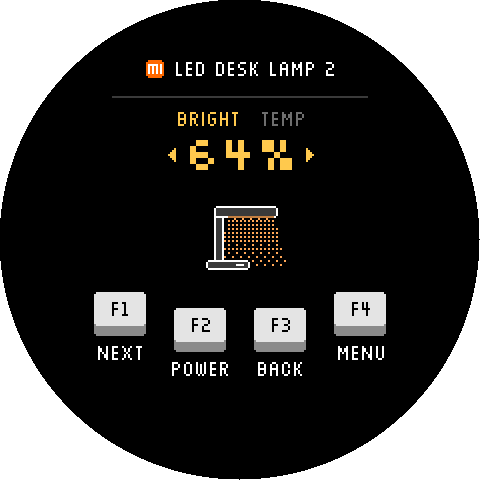
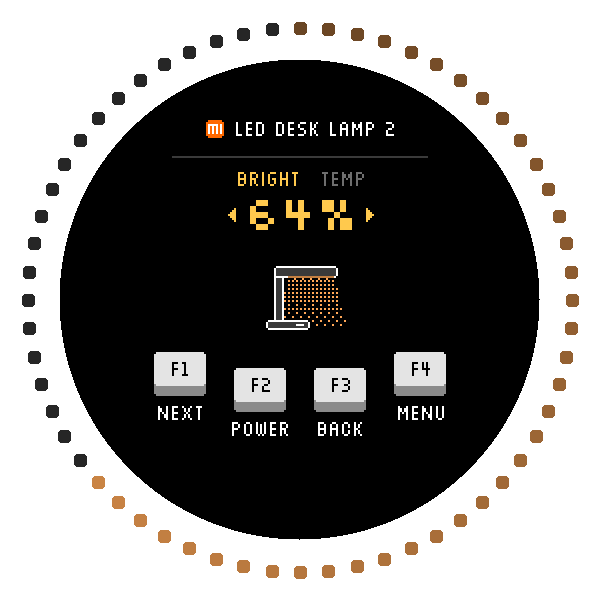
Docs: README's HOME section with every screen and the LED ring
The list and edit shots show the LED ring round the screen (brightness fill, the whites, the
hue wheel); new shots of a desk lamp on, one off, an offline lamp; the screens, the ring, idle
and setup described; the "not yet tested" note goes.

diff --git a/README.md b/README.md
@@ -482,37 +482,67 @@ SECONDS turns the ring into a seconds hand. The clock never goes to the idle scr
 ### HOME (Xiaomi lamps)
 
 <p>
-  <img src="NanoDepsidf/docs/images/home-list.png" width="180" alt="HOME list: the lightstrip, on, its LEDs and brightness meter in its blue">
-  <img src="NanoDepsidf/docs/images/home-edit.png" width="180" alt="HOME changing Desk Lamp 2's brightness, 64%: the value in amber, its light cone below">
-  <img src="NanoDepsidf/docs/images/home-white.png" width="180" alt="HOME changing Desk Lamp 2's white, 4300 K, NEUTRAL">
-  <img src="NanoDepsidf/docs/images/home-color.png" width="180" alt="HOME changing the lightstrip's colour, hue 200">
+  <img src="NanoDepsidf/docs/images/home-list.png" width="225" alt="HOME list: the lightstrip, on at 76%; the LED ring filled three quarters of the way round in its blue">
+  <img src="NanoDepsidf/docs/images/home-edit.png" width="225" alt="HOME changing Desk Lamp 2's brightness, 64%: the ring fills clockwise from 12 o'clock, dim to full in its warm white">
+</p>
+<p>
+  <img src="NanoDepsidf/docs/images/home-white.png" width="225" alt="HOME changing Desk Lamp 2's white, 4300 K, NEUTRAL: the ring runs the lamp's whites, warm to cool, the chosen one brightest">
+  <img src="NanoDepsidf/docs/images/home-color.png" width="225" alt="HOME changing the lightstrip's colour, hue 200: the ring is a hue wheel with the chosen colour at 12 o'clock">
 </p>
 
-Pick **HOME** in PROFILES and the knob looks for your lamps on the network, then lists them.
-It talks to them itself over WiFi with Xiaomi's local protocol (miIO, UDP port 54321): no
-cloud, no computer, no hub.
+Pick **HOME** in PROFILES and the knob becomes a remote for the Xiaomi lamps on your network:
+it finds them, lists them, and changes them live as you turn. It talks to the lamps itself
+over WiFi with Xiaomi's local protocol (miIO, UDP port 54321): no cloud, no computer, no hub.
+Desk lamps, light strips and bulbs work (tested with the Xiaomi LED Desk Lamp 2, Mi Desk Lamp
+1S and the Xiaomi Smart Lightstrip); each lamp offers what it has of brightness, white (colour
+temperature) and colour.
 
 | Input | In the list | Changing a lamp |
 |---|---|---|
-| Knob | Next / previous lamp | Its brightness, white (colour temperature) or colour, live |
-| F1 | Change this lamp | Next setting |
+| Knob | Next / previous lamp | Its brightness, white or colour, live |
+| F1 | Change this lamp (RETRY on an offline one) | Next setting |
 | F2 | On / off | On / off |
-| F3 | Look again | Back to the list |
+| F3 | Look again (SCAN) | Back to the list |
 | F4 | Menu | Menu |
 
 Every change goes to the lamp as you turn; there is nothing to save. Turning a value up on a
-lamp that is off switches it on.
+lamp that is off switches it on. The knob's feel is coarse in the list and fine while you
+change a lamp.
 
-**What you see.** Each lamp is drawn after the real device (a desk lamp, the 1S with its slim
-arm, the strip, a bulb), lit in its own colour and dimmed with its brightness; desk lamps throw
-a dithered cone of light. The Mi badge at the top marks Xiaomi's lamps. The screen shows the
-value; the LED ring shows the scale. The lamp's brightness fills the ring clockwise from
-12 o'clock in its colour (1 % is one LED): dim in the list, dim to full while you turn it. White
-runs round the ring from the lamp's warmest to its coolest with the chosen one brightest, and
-colour is a hue wheel that turns so the chosen colour sits at 12 o'clock. With the lamp off,
-the ring is dark. On the idle screen the lamp you changed last jumps. A lamp shows OFFLINE when it doesn't answer, and NO REPLY
-when a change got no answer. The knob reads the lamps again every 30 seconds while the list
-is up, so a change made on the phone shows there too.
+**The screens.**
+
+<p>
+  <img src="NanoDepsidf/docs/images/home-scan.png" width="180" alt="HOME scanning: rings go out from a bulb, SEARCHING, 2 OF 4">
+  <img src="NanoDepsidf/docs/images/home-desk.png" width="180" alt="HOME list: LED Desk Lamp 2, on, its light cone and brightness meter in warm white">
+  <img src="NanoDepsidf/docs/images/home-off.png" width="180" alt="HOME list: the Desk Lamp (1S) switched off with F2, drawn in grey">
+  <img src="NanoDepsidf/docs/images/home-offline.png" width="180" alt="HOME list: a bulb that doesn't answer, OFFLINE, F1 RETRY">
+</p>
+
+- **Searching:** on entering HOME (or F3, or after a minute away) the knob says hello to the
+  lamps and counts the ones that answer. It takes a second or two.
+- **The list:** each lamp is drawn after the real device (a desk lamp, the 1S with its slim
+  arm, the strip, a bulb), lit in its own colour and dimmed with its brightness; desk lamps
+  throw a dithered cone of light. Under its name: ON with a brightness meter, OFF, OFFLINE
+  (it doesn't answer) or NO REPLY (a change got no answer). The Mi badge at the top marks
+  Xiaomi's lamps. While the list is up the knob reads the lamps again every 30 seconds, so a
+  change made on the phone shows there too.
+- **Changing a lamp:** the settings it has along the top (the one being turned in amber), the
+  value, WARM / NEUTRAL / COOL for white, and the lamp itself, lit as it is now.
+
+**The LED ring is the scale.** The screen shows the value; the ring round the knob shows where
+it sits, in the lamp's own light:
+- **Brightness** fills the ring clockwise from 12 o'clock in the lamp's colour, so 1 % is one
+  LED and 100 % all 60: dim in the list, dim to full while you turn it.
+- **White** runs round the ring from the lamp's warmest white to its coolest, the chosen one
+  brightest.
+- **Colour** is a hue wheel that turns as you do, the chosen colour at 12 o'clock.
+- With the lamp off, the ring is dark. The keys light in the lamp's colour.
+
+<p>
+  <img src="NanoDepsidf/docs/images/home-idle.png" width="180" alt="HOME idle screen: the lightstrip as the jumping icon, lit in its blue">
+</p>
+
+**Idle.** On the idle screen the lamp you changed last jumps, lit in its colour.
 
 **Setting it up, once.** Each lamp has a key (its token) that only your Xiaomi account knows:
 1. Get the tokens with [Xiaomi-cloud-tokens-extractor](https://github.com/PiotrMachowski/Xiaomi-cloud-tokens-extractor)
@@ -520,17 +550,14 @@ is up, so a change made on the phone shows there too.
    `python token_extractor.py -o ~/.quadra/xiaomi-devices.json`.
 2. With the knob on USB: `quadra.py home import`. It takes every Xiaomi light from that file,
    looks up what each model can do in its public spec ([miot-spec.org](https://miot-spec.org)),
-   asks each lamp which protocol it answers (the newer MIoT, or the older commands some
-   Yeelight-made lamps keep to), and stores up to 12 lamps on the knob. `quadra.py home list`
-   shows what the knob sees.
+   finds where each lamp is on the network now, asks it which protocol it answers (the newer
+   MIoT, or the older commands some Yeelight-made lamps keep to) and stores up to 12 lamps on
+   the knob, each with its icon. `quadra.py home list` shows what the knob sees.
 
-The tokens are stored on the knob in plain text, like the WiFi password, and only travel over
-USB. Lamps on another subnet are found by their last known address; if one doesn't answer
-there (the router gave it a new one), the knob says hello to every address in that subnet and
-finds it by its id. The import does the same, and stores the new address.
-
-HOME is built and checked on the computer, and the protocol against real lamps from the Mac;
-**not yet tested on the knob itself.**
+Run the import again after adding a lamp in the Xiaomi Home app. The tokens are stored on the
+knob in plain text, like the WiFi password, and only travel over USB. Lamps on another subnet
+are found by their last known address; if one doesn't answer there (the router gave it a new
+one), the knob says hello to every address in that subnet and finds it by its id.
 
 ### The Mac service
 
